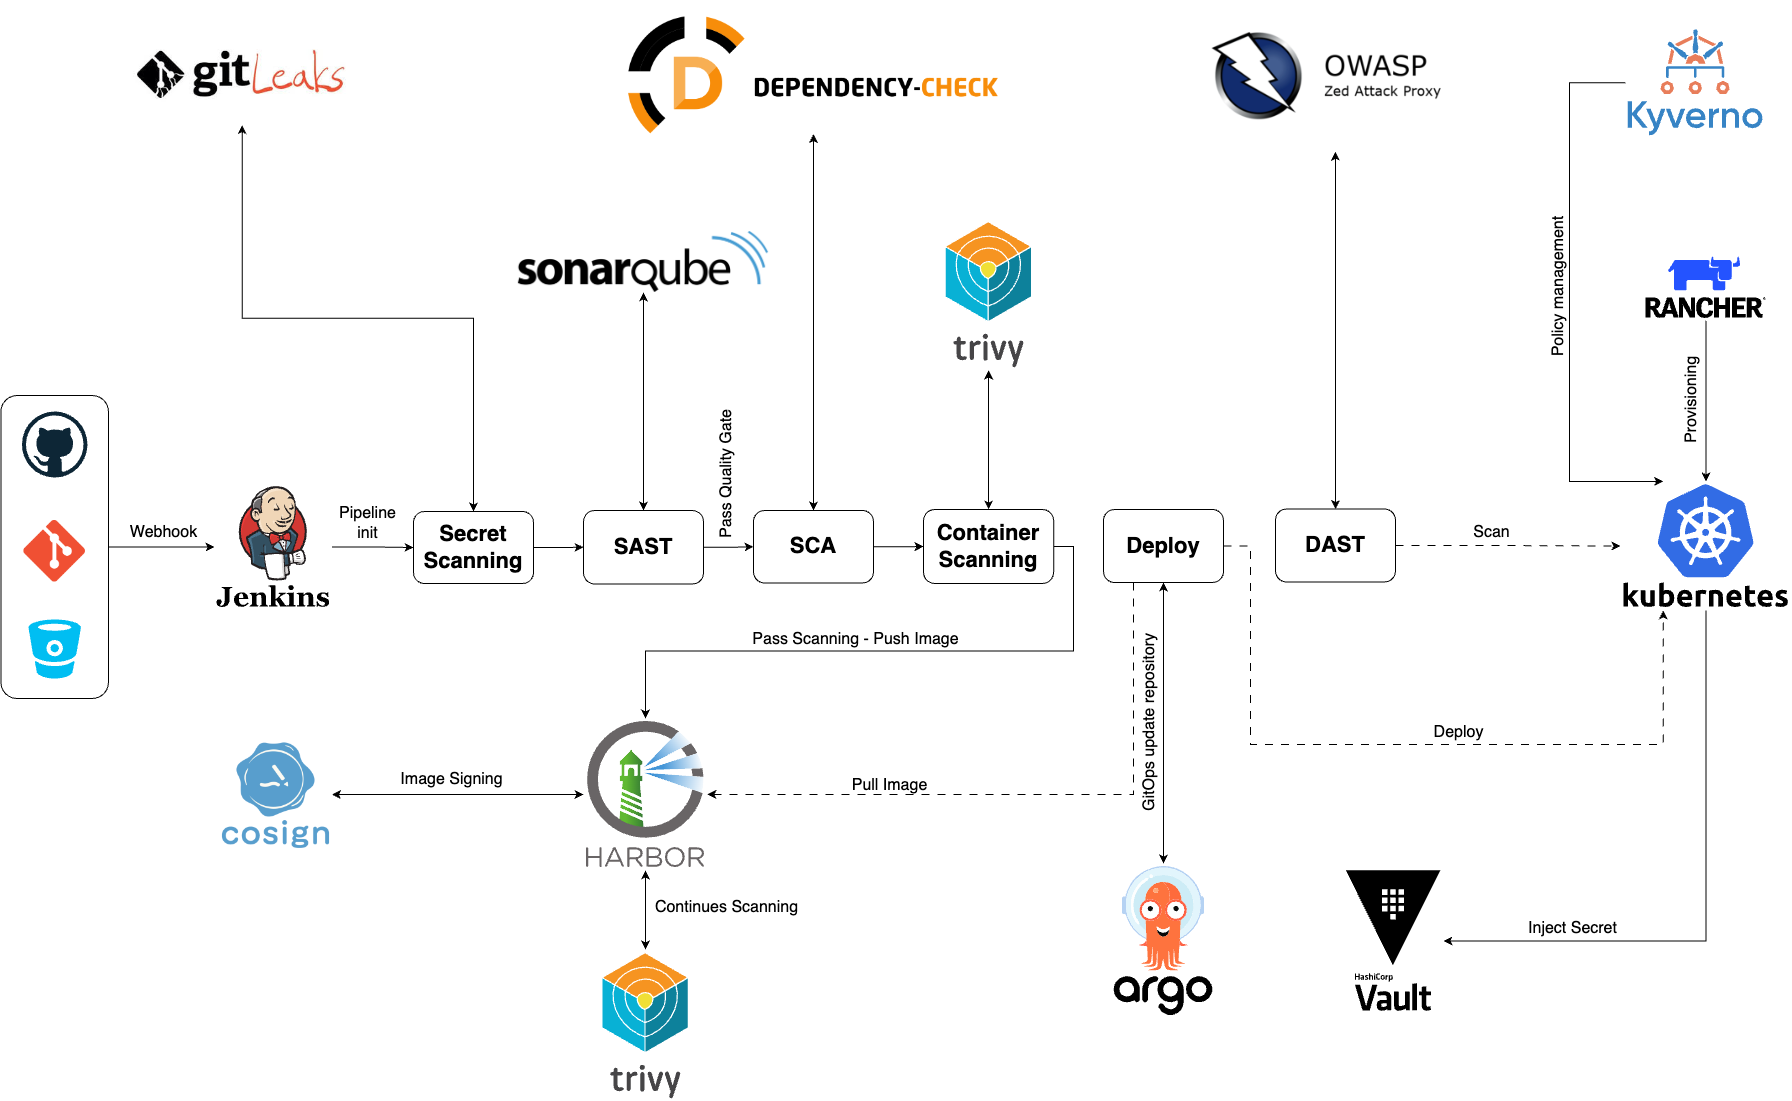
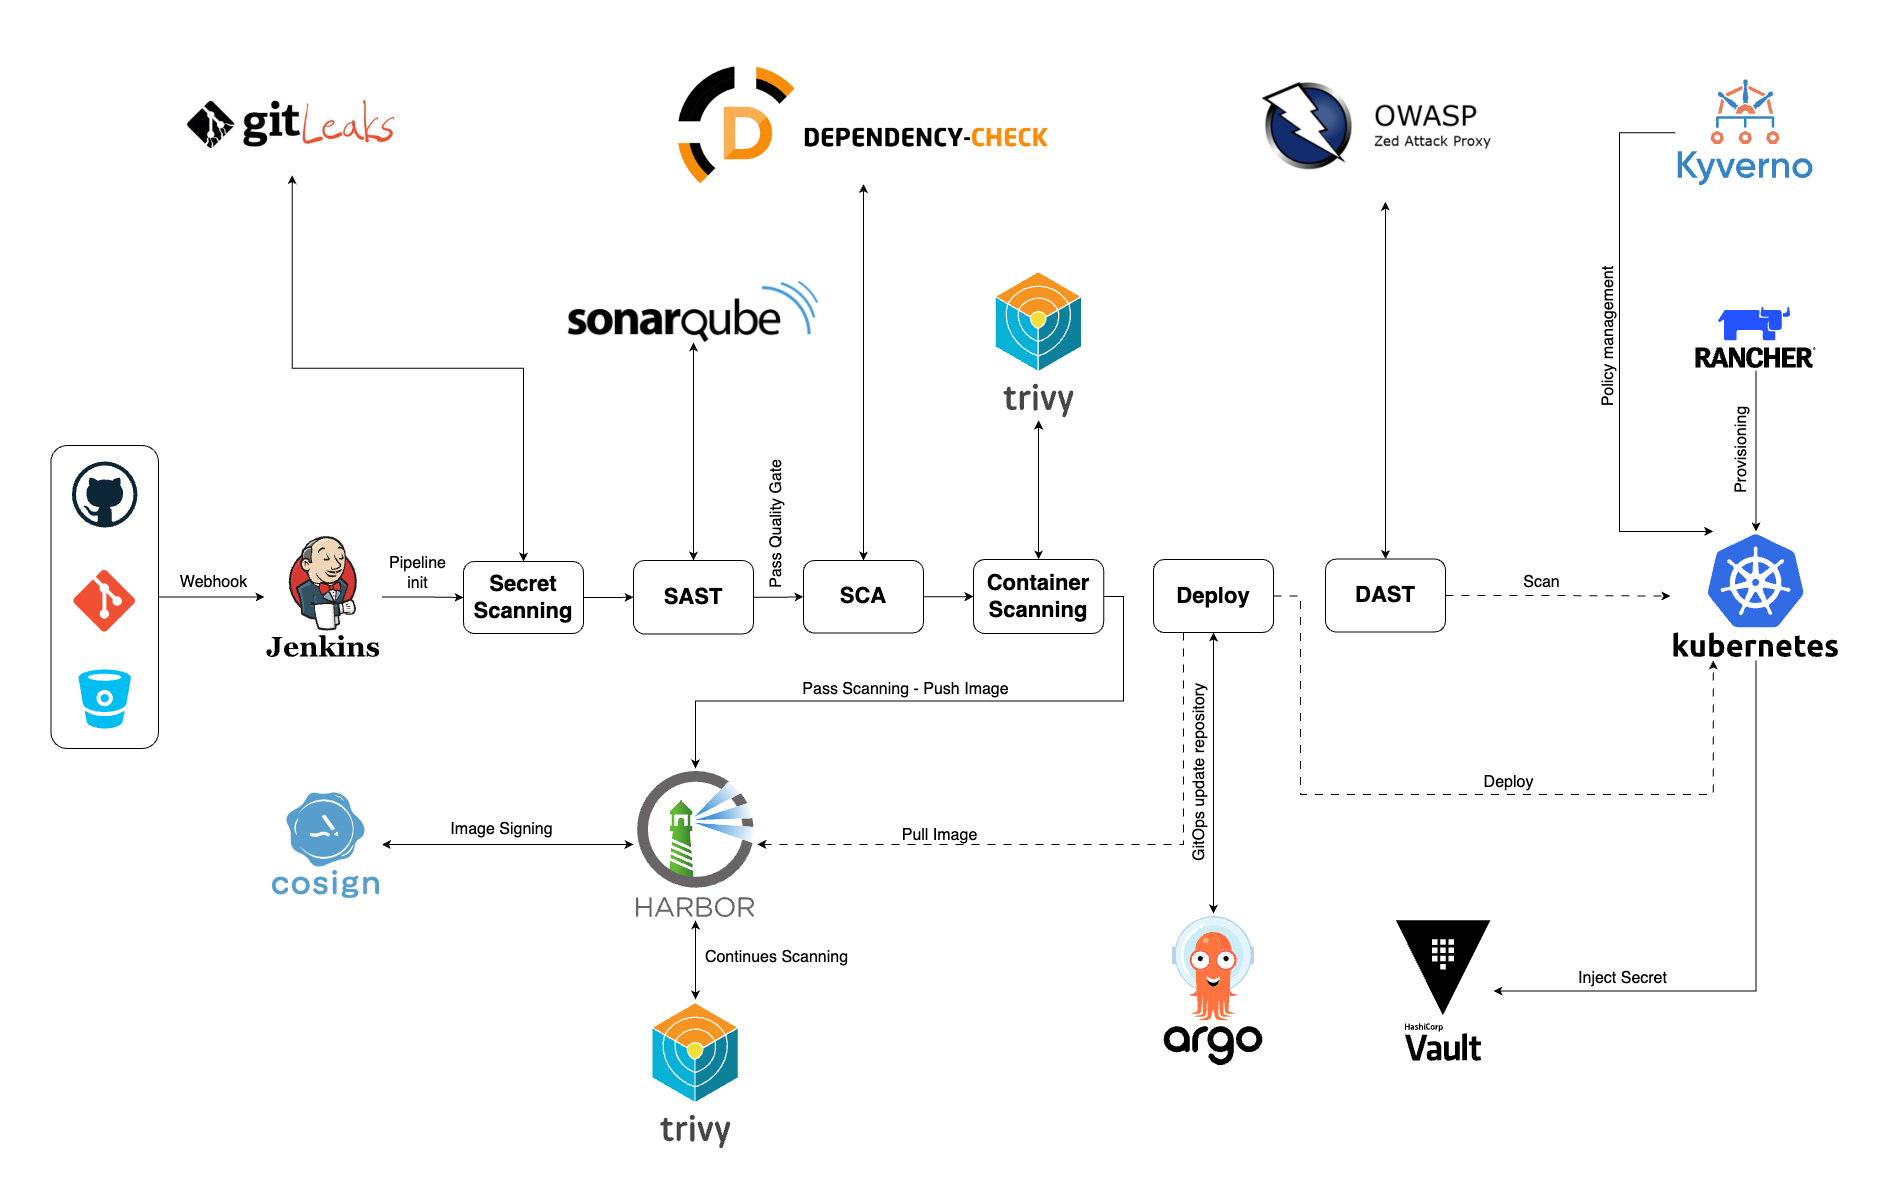
update detail

diff --git a/README.md b/README.md
@@ -1,0 +1,24 @@
+# DevSecOps Project
+
+Welcome to my DevSecOps platform project! This platform combines several open source and cloud-native tools to create a comprehensive environment for practicing DevSecOps skills.
+
+The codebase is forked from Google's [microservices-demo](https://github.com/GoogleCloudPlatform/microservices-demo) and includes several different programming languages. This allows me to gain hands-on experience with building Docker images and managing dependencies in a realistic microservices architecture.
+
+Through this project, I aim to deepen my understanding of DevSecOps best practices, strengthen my skills with relevant tools and technologies, and create a solid portfolio piece demonstrating my capabilities. I'm excited to continue developing this platform and exploring the possibilities at the intersection of development, security, and operations.
+
+## Diagram
+
+![alt text](picture/devsecops.png)
+
+## Tools
+
++ Secret Scanning - GitLeaks
++ Static Application Security Testing (SAST) - SonarQube
++ Software Composition Analysis (SCA) - OWASP Dependency-check 
++ Container Scanning - Trivy
++ Dynamic Application Security Testing (DAST) - OWASP ZAP
++ Secret Management - Vault
++ Provisioning - Rancher
++ Registry - Harbor
+
+## Source Code
